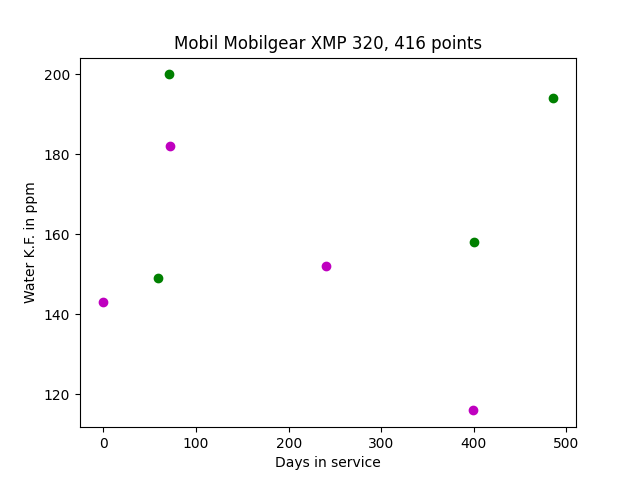
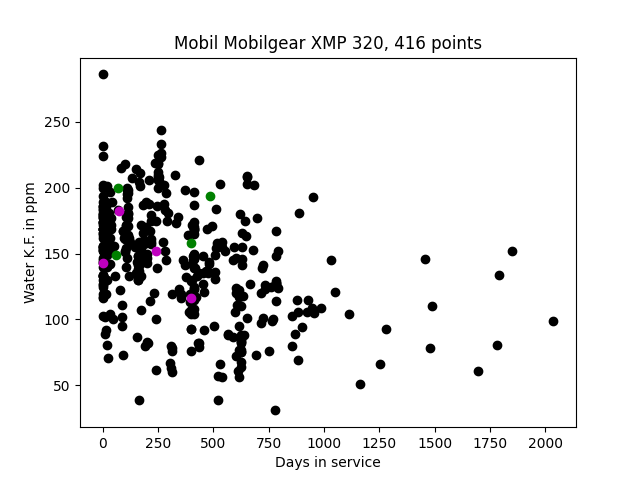
Sep 20, 2022, 4:16 PM

diff --git a/project/dataset.py b/project/dataset.py
@@ -487,6 +487,7 @@ class Dataset:
                         
                 # plot
                 fig, ax = plt.subplots()
+                ax.plot(x1, y1, "ko")
                 ax.plot(x2, y2, "go")
                 ax.plot(x3, y3, "mo")
                 plt.title(f"{oil_name}, {len(x1)+len(x2)+len(x3)} points")
